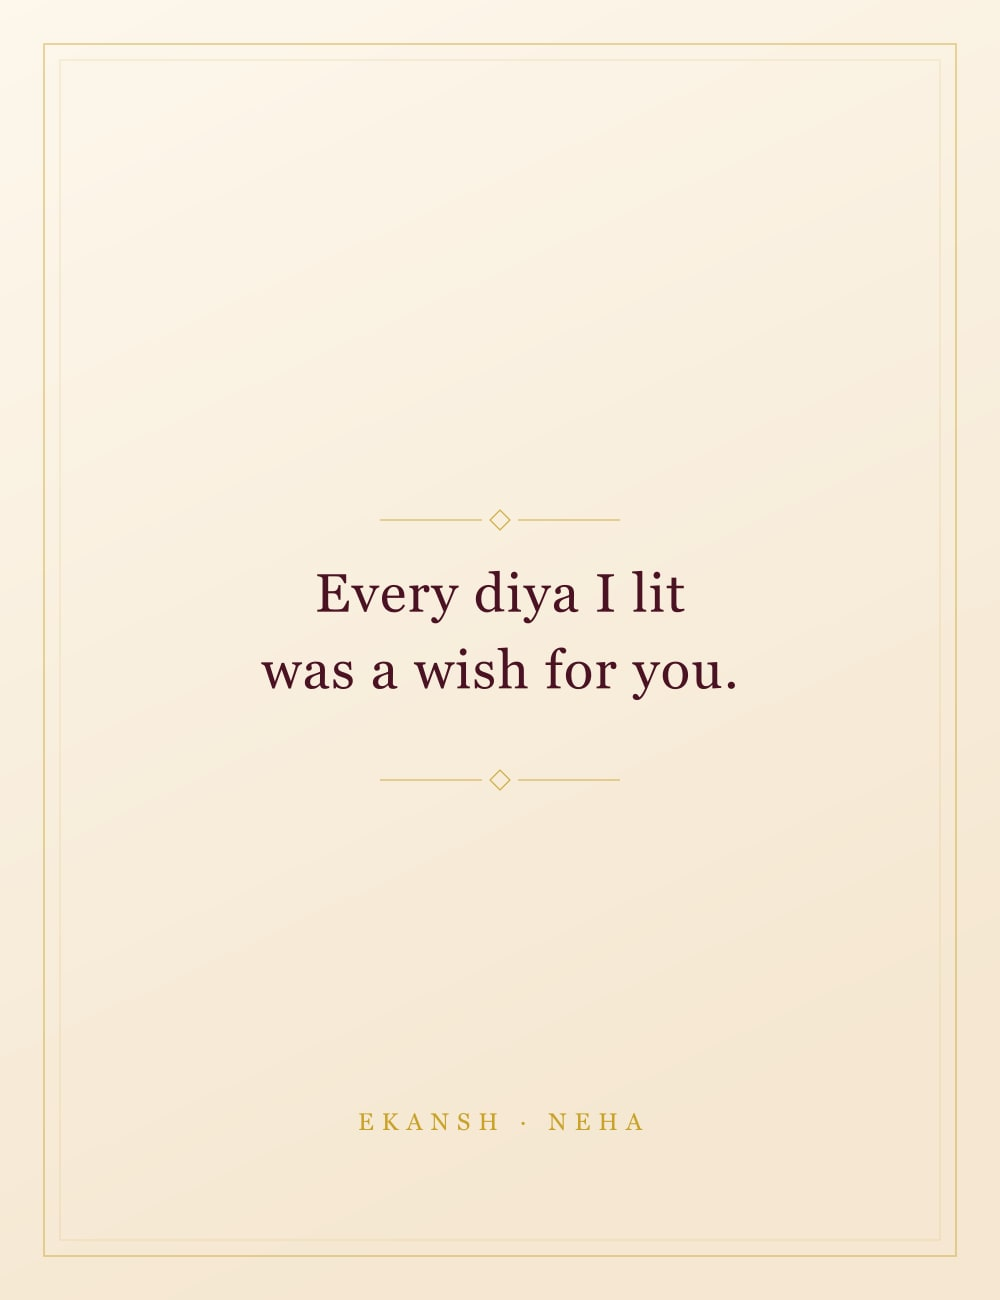
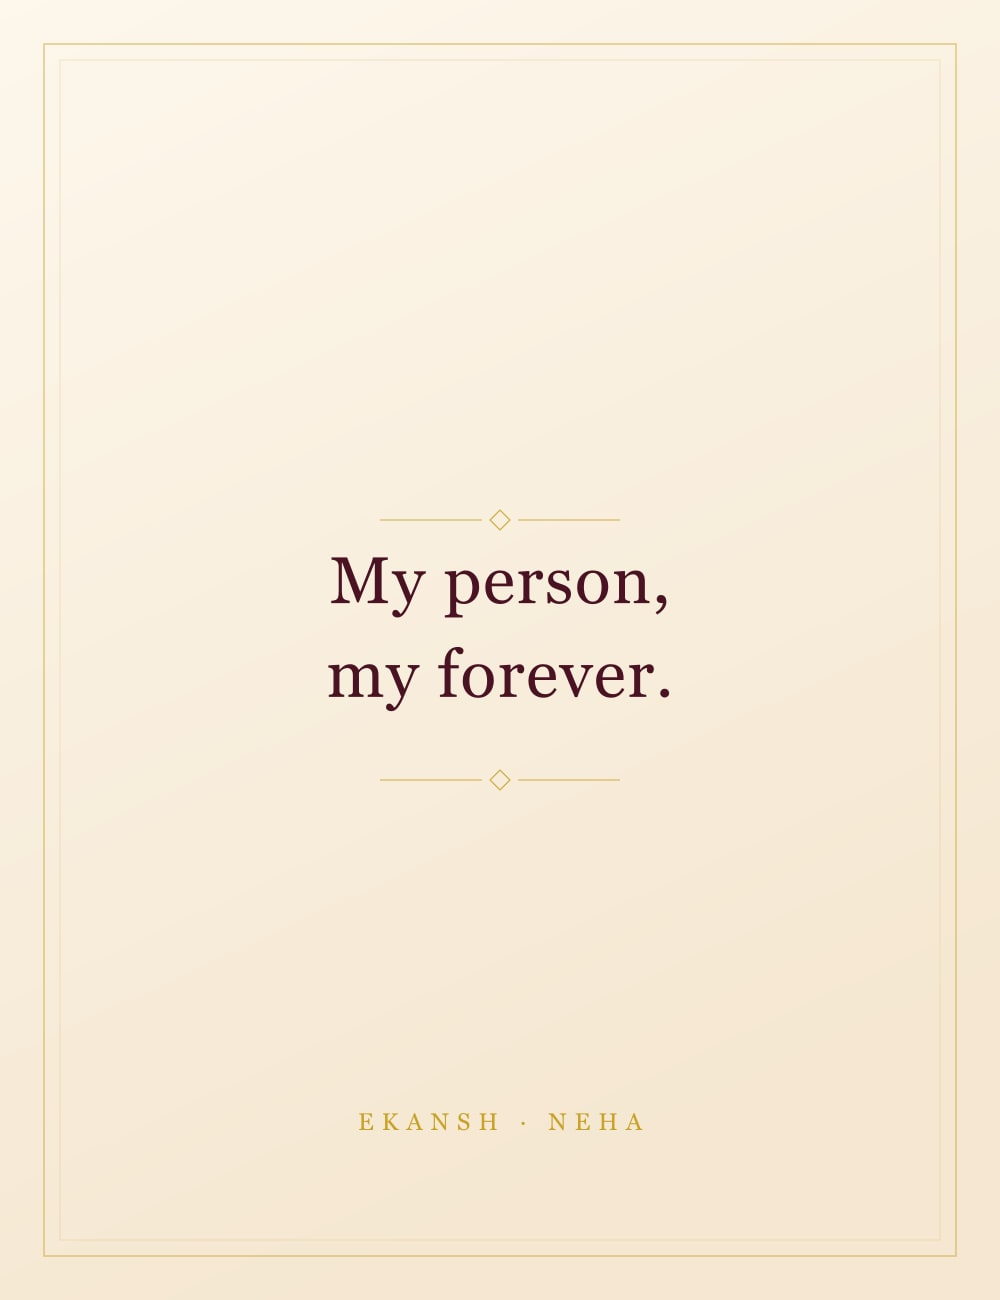
Drop the repeated couple page and make the chrome quieter
The garland pair was in the album twice, so the second copy becomes a ring card,
and the diya wish is replaced with a shorter line. The nav bar contact is now one
row instead of a stacked avatar and name crammed into a 44px bar, and it waits
until the contact block has actually scrolled out before it appears.

Scrollbars go from 6px to 3px at lower opacity so they read as a hint rather than
a line down the screen.

Generated with Codebuff 🤖

Changed region(s): [[0.248, 0.4308, 0.713, 0.5538]]

diff --git a/src/MessagesPage.tsx b/src/MessagesPage.tsx
@@ -1,4 +1,4 @@
-import { useState } from "react";
+import { useRef, useState } from "react";
 import { ChevronLeft, ChevronRight, Mic, Plus, Video } from "lucide-react";
 import styles from "./messages.module.css";
 import { EmojiText } from "./emoji";
@@ -156,6 +156,7 @@ export default function MessagesPage({ onBack }: { onBack?: () => void }) {
   // name into the nav bar once that block has scrolled away, so the header still
   // says who you are talking to without pinning the whole block.
   const [collapsed, setCollapsed] = useState(false);
+  const contactRef = useRef<HTMLDivElement>(null);
 
   return (
     <div
@@ -186,19 +187,21 @@ export default function MessagesPage({ onBack }: { onBack?: () => void }) {
               <Video size={22} strokeWidth={2} />
             </button>
 
-            {/* Compact contact in the nav bar, revealed as the thread scrolls. */}
+            {/* Compact contact in the nav bar, revealed as the thread scrolls.
+                One row, centred against the buttons — the stacked avatar-over-name
+                of a full contact block is too tall for a 44px bar. */}
             <div
               aria-hidden={!collapsed}
-              className="pointer-events-none absolute inset-x-0 bottom-1 flex flex-col items-center transition-opacity duration-200"
+              className="pointer-events-none absolute inset-0 flex items-center justify-center gap-2 transition-opacity duration-200"
               style={{ opacity: collapsed ? 1 : 0 }}
             >
               <div
-                className="flex h-7 w-7 items-center justify-center rounded-full text-[13px] font-semibold text-white select-none"
+                className="flex h-6 w-6 items-center justify-center rounded-full text-[11px] font-semibold text-white select-none"
                 style={{ background: MONOGRAM_BG }}
               >
                 N
               </div>
-              <span className="mt-px text-[11px] font-medium text-black">Neha</span>
+              <span className="text-[14px] font-semibold text-black">Neha</span>
             </div>
           </div>
         </header>
@@ -206,12 +209,18 @@ export default function MessagesPage({ onBack }: { onBack?: () => void }) {
         {/* Messages */}
         <main
           className="flex-1 overflow-y-auto px-4 pt-3 pb-2"
-          onScroll={(event) => setCollapsed(event.currentTarget.scrollTop > 56)}
+          onScroll={(event) => {
+            // Measure the block: the nav bar takes over only once the last of it
+            // has gone, so the thread never shows "Neha" twice at once.
+            const block = contactRef.current;
+            const threshold = block ? Math.max(block.offsetHeight - 12, 24) : 84;
+            setCollapsed(event.currentTarget.scrollTop > threshold);
+          }}
         >
           {/* The big contact block sits at the top of the thread and scrolls with
               it; the nav bar picks up the compact version once this is out of
               view, the way Messages does it. */}
-          <div className="mb-3 flex flex-col items-center">
+          <div ref={contactRef} className="mb-3 flex flex-col items-center">
             <div
               aria-hidden
               className="flex h-16 w-16 items-center justify-center rounded-full text-[26px] font-semibold text-white select-none shadow-[0_2px_8px_rgba(0,0,0,0.12)]"

diff --git a/src/index.css b/src/index.css
@@ -80,8 +80,9 @@ input, textarea, [contenteditable], [contenteditable="true"] {
 
 /*
  * A slim overlay scrollbar instead of the desktop chunky one (and instead of
- * hiding it altogether): 6px, rounded, translucent grey so it reads on both the
- * dark apps and the cream pages, and it never takes a layout gutter.
+ * hiding it altogether): 3px, rounded, low-opacity grey so it reads on both the
+ * dark apps and the cream pages without drawing a line down the screen, and it
+ * never takes a layout gutter.
  */
 /* A dark base scheme so the native overlay scrollbar is drawn white-on-dark
  * instead of painting a light track across a dark app screen. */
@@ -91,12 +92,12 @@ html {
 
 * {
   scrollbar-width: thin;
-  scrollbar-color: rgba(150, 150, 158, 0.55) transparent;
+  scrollbar-color: rgba(158, 158, 168, 0.4) transparent;
 }
 
 *::-webkit-scrollbar {
-  width: 6px;
-  height: 6px;
+  width: 3px;
+  height: 3px;
   background: transparent;
 }
 
@@ -109,13 +110,13 @@ html {
 }
 
 *::-webkit-scrollbar-thumb {
-  background: rgba(150, 150, 158, 0.55);
+  background: rgba(158, 158, 168, 0.4);
   border-radius: 999px;
   background-clip: padding-box;
 }
 
 *::-webkit-scrollbar-thumb:hover {
-  background: rgba(150, 150, 158, 0.8);
+  background: rgba(158, 158, 168, 0.72);
   background-clip: padding-box;
 }
 

diff --git a/src/PhotosPage.tsx b/src/PhotosPage.tsx
@@ -83,7 +83,7 @@ function CollectionIcon({ color = "white" }: { color?: string }) {
  */
 const PHOTOS: { file: string; height: number }[] = [
   { file: "01.jpg", height: 560 }, // couple plate
-  { file: "15.jpg", height: 300 }, // the pair, wide
+  { file: "c4.jpg", height: 567 }, // ring + heart (the couple plate is already 01)
   { file: "q1.jpg", height: 567 }, // "Two hearts, one promise."
   { file: "03.jpg", height: 560 }, // peacock feather
   { file: "c1.jpg", height: 567 }, // panda + heart
@@ -117,7 +117,7 @@ type AlbumItem = {
 
 /** Interleave the clips through the plates so the grid keeps moving. */
 const ORDER: string[] = [
-  "15.jpg",
+  "c4.jpg",
   "mehendi.mp4",
   "01.jpg",
   "q1.jpg",
@@ -138,7 +138,7 @@ const ORDER: string[] = [
   "q5.jpg",
 ];
 
-const FAVOURITES = ["q1.jpg", "15.jpg", "c1.jpg", "rings.mp4", "01.jpg", "q4.jpg"];
+const FAVOURITES = ["q1.jpg", "c4.jpg", "c1.jpg", "rings.mp4", "01.jpg", "q4.jpg"];
 
 function buildAlbum(): AlbumItem[] {
   const byFile = new Map<string, AlbumItem>();
